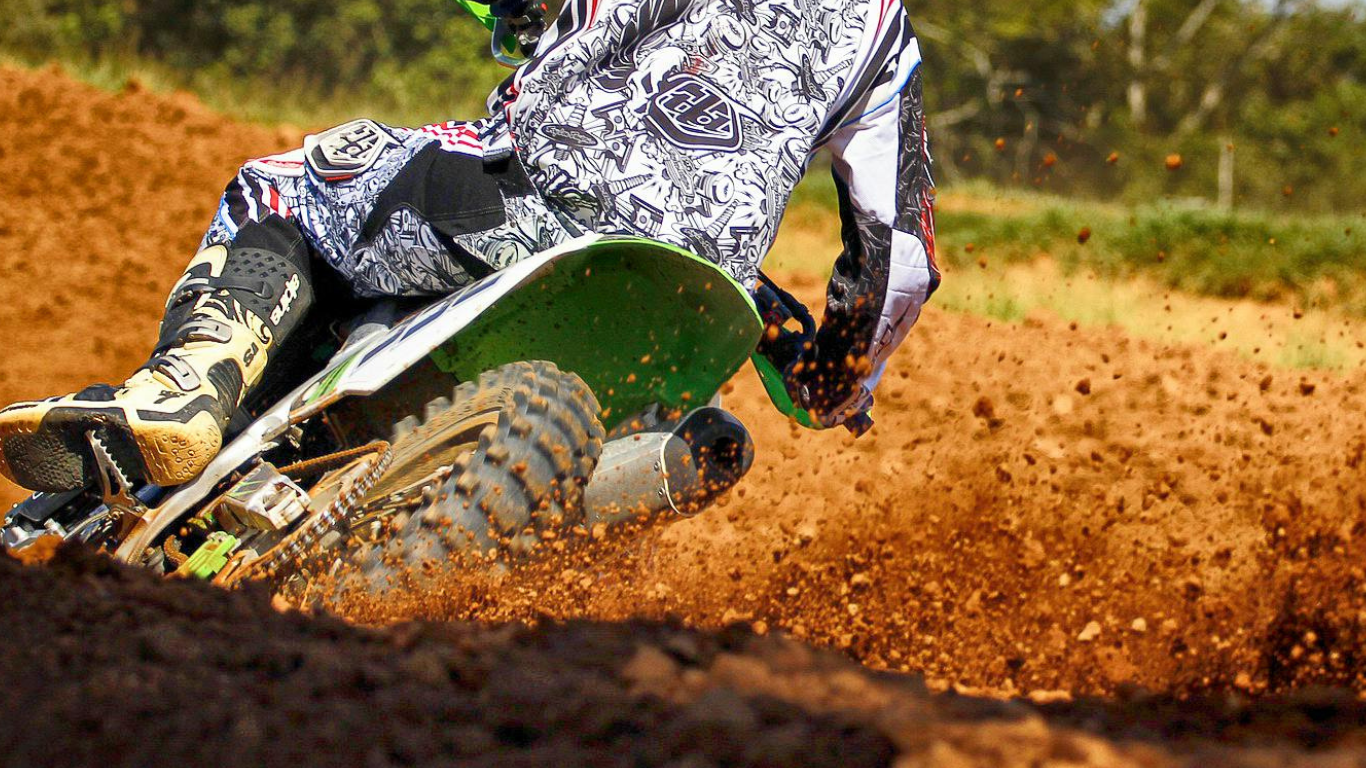
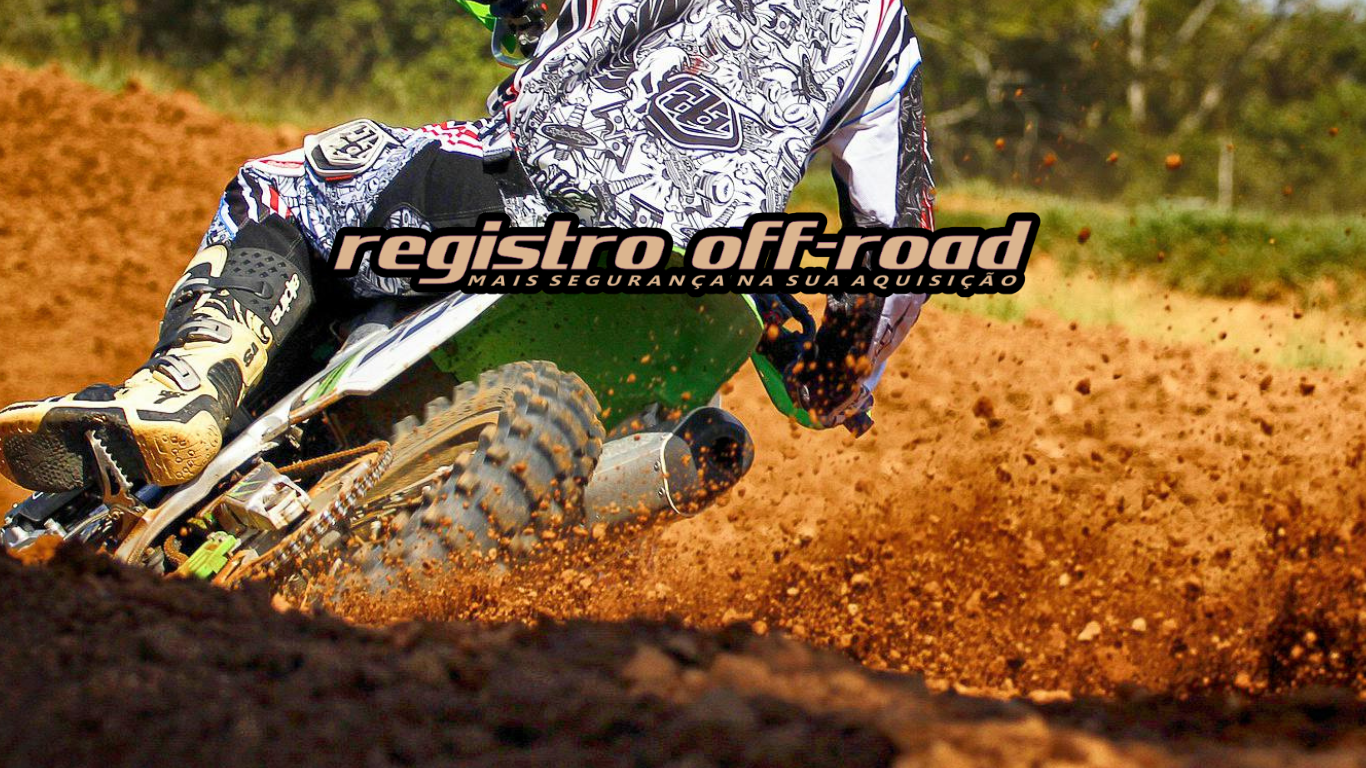
finalizando o projeto

Changed region(s): [[0.2152, 0.25, 0.7687, 0.4062]]

diff --git a/style.css b/style.css
@@ -6,7 +6,7 @@ body{
 }
   
 #principal{
-    background-image: url("imagens/Image\ 2024-05-24\ at\ 15.50.02.jpeg");
+    background-image: url("imagens/INICIO.png");
     width: 100%;
     height: 100vh; 
     background-size: cover; 
@@ -333,7 +333,7 @@ body{
     }
 
     #principal {
-        background-size: 100% 100%; 
+    background-size: 160% 110%;
     }
 
     #Segundo {
